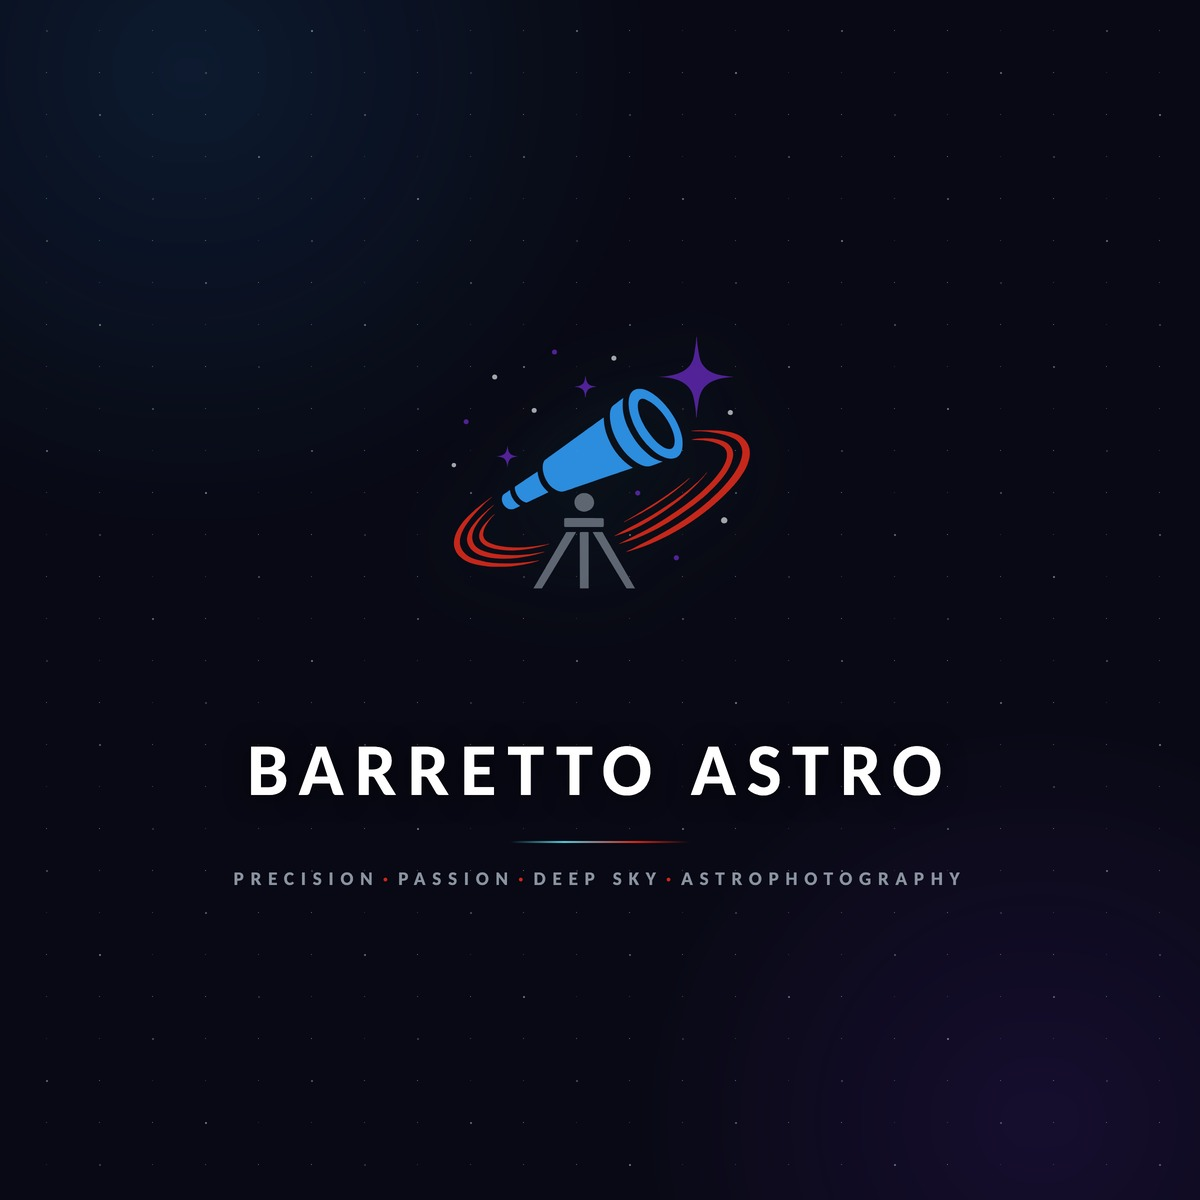
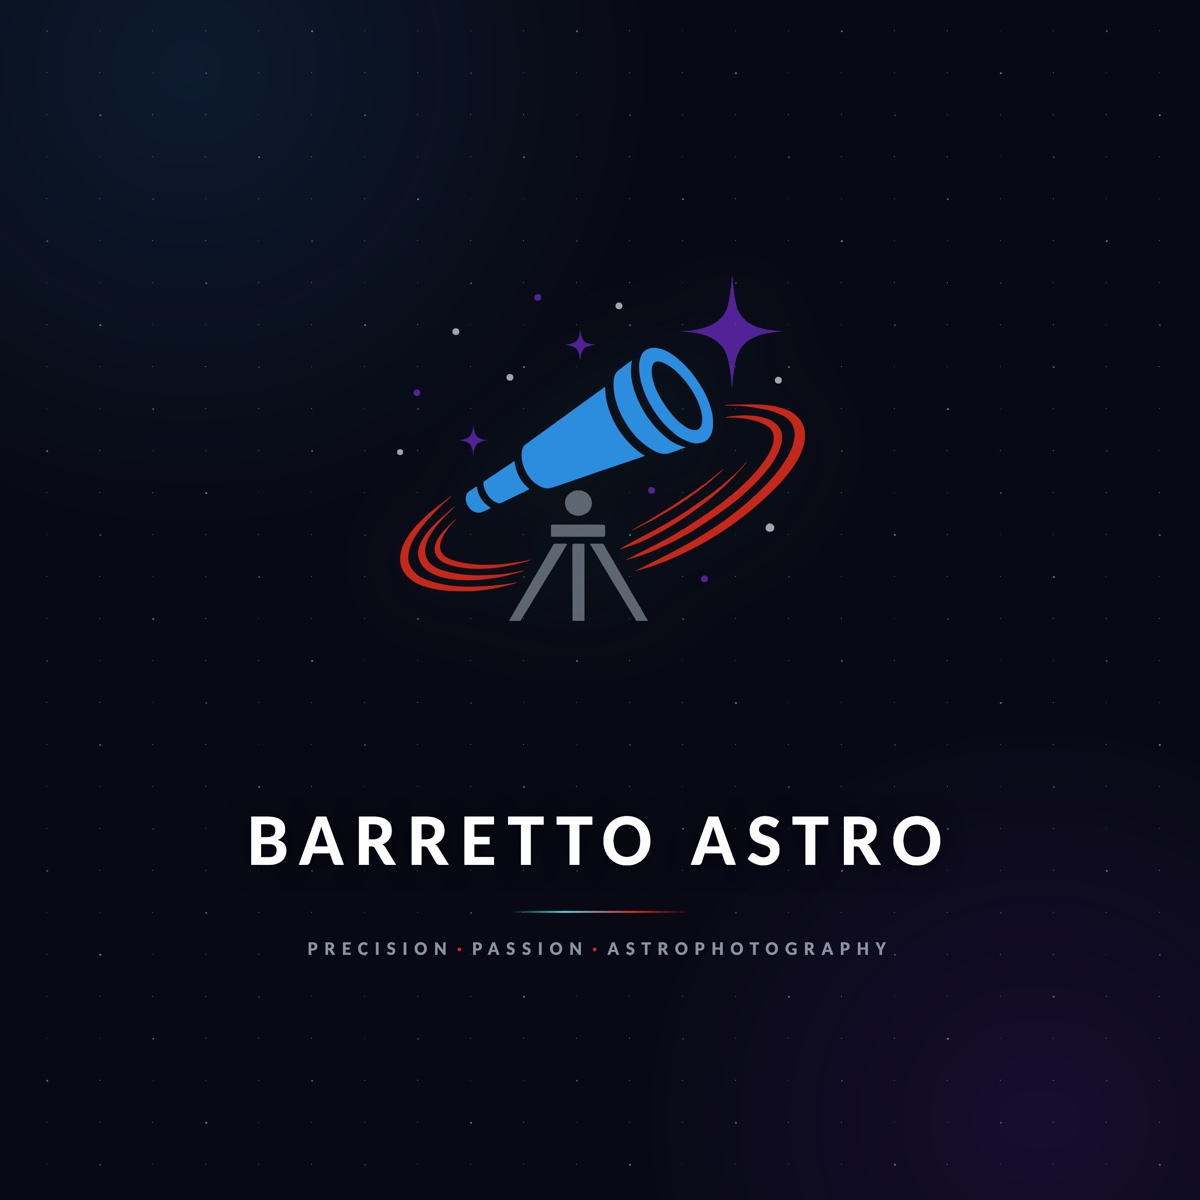
Remove dropped 'DEEP SKY' pillar from OG images and README
Pillars are now PRECISION · PASSION · ASTROPHOTOGRAPHY (3), matching the
2026-07-05 brand guideline. Re-rendered the two baked OG images from the
corrected .og-samples templates and updated README to match.

diff --git a/README.md b/README.md
@@ -2,7 +2,7 @@
 
 A standalone, animated showcase site for **Barretto Astro** (custom astrophotography accessories, Perth WA). Built with plain **HTML + CSS + JavaScript** — no build step, no dependencies. All product links point to the live [BarrettoAstro Etsy store](https://www.etsy.com/au/shop/BarrettoAstro).
 
-Design follows the official **Barretto Astro Brand Guidelines** (`../Visuals/BarrettoAstro_BrandGuideline_OnePage.pdf`): the official colour palette, Calibri typeface, logo-on-Deep-Space rule, and the `PRECISION · PASSION · DEEP SKY · ASTROPHOTOGRAPHY` pillars.
+Design follows the official **Barretto Astro Brand Guidelines** (`../Visuals/BarrettoAstro_BrandGuideline_OnePage.pdf`): the official colour palette, Calibri typeface, logo-on-Deep-Space rule, and the `PRECISION · PASSION · ASTROPHOTOGRAPHY` pillars.
 
 ---
 